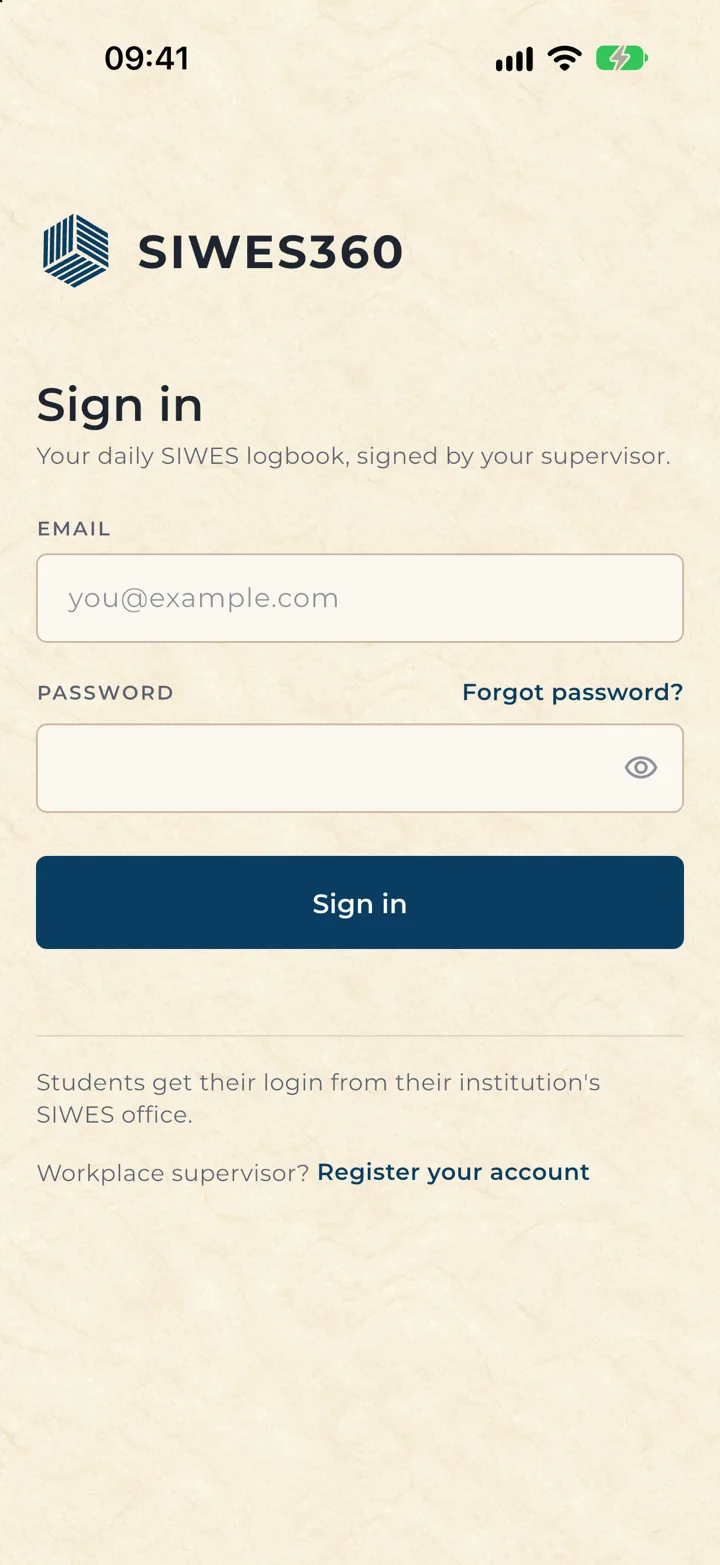
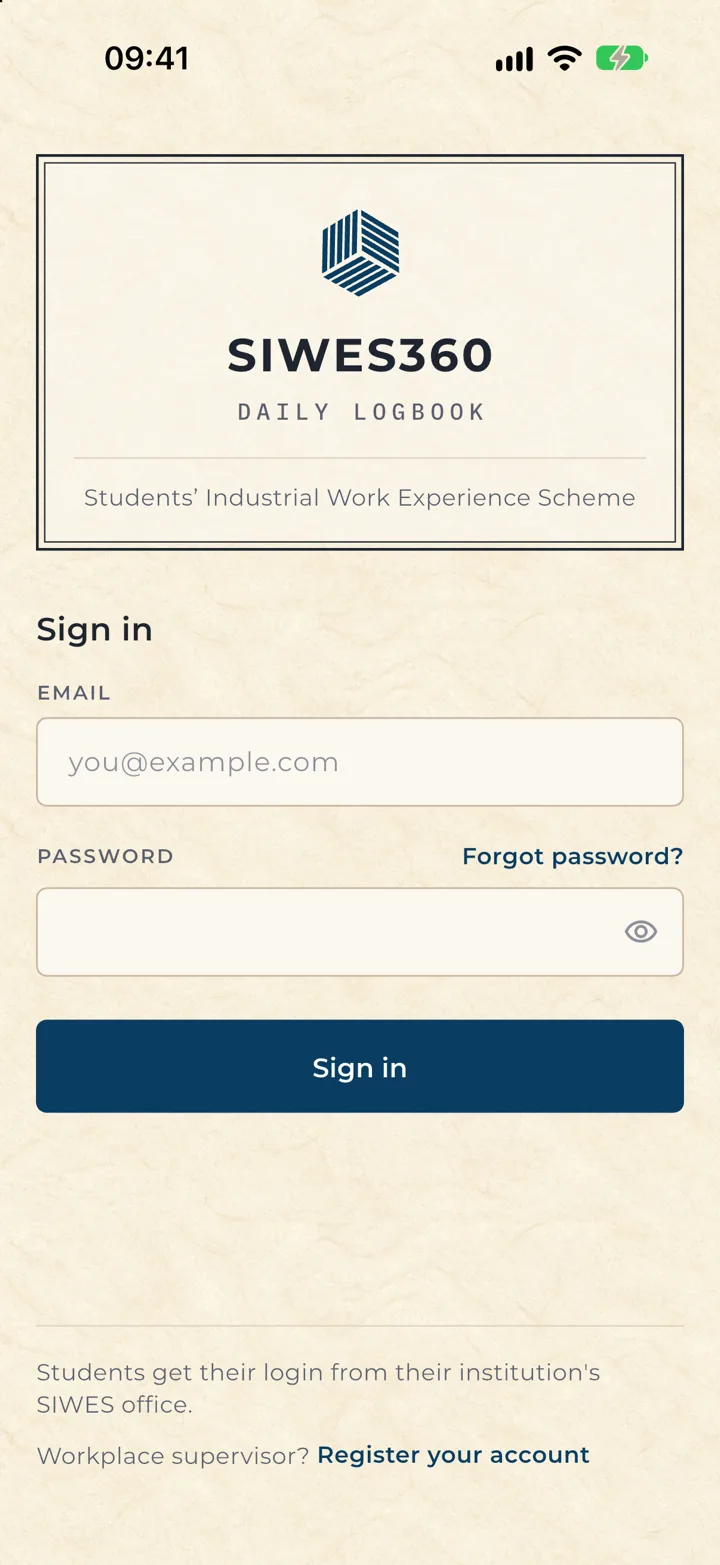
Show the new sign-in screens and describe OtakuPlanner's assistant
OtakuPlanner's Log in and SIWES360's Sign in are retaken after their
redesigns, and the prototypes' tap areas moved onto the new buttons.

The OtakuPlanner case study gets a section on the planning assistant
now that it runs end to end: what it reads, how suggestions reach the
calendar, and how the backend keeps the Gemini key and checks replies.

diff --git a/index.html b/index.html
@@ -853,7 +853,7 @@
                             <div class="col-md-7">
                                 <div class="project-info">
                                     <h6>Project Overview</h6>
-                                    <p>A productivity planner built for anime fans. Tasks live on a custom calendar, recurring tasks can be set up by typing them in plain English, and reminders, a daily streak and badges keep you on track. An assistant reads your own tasks and suggests times for what you want to fit in; nothing is added until you tap Add.</p>
+                                    <p>A productivity planner built for anime fans. Tasks live on a custom calendar, recurring tasks can be set up by typing them in plain English, and reminders, a daily streak and badges keep you on track. A planning assistant finds time in your week for whatever you want to fit in.</p>
                                     
                                     <h6>Key Features</h6>
                                     <ul>
@@ -864,11 +864,12 @@
                                         <li>Reminders five minutes before a task and when it is due</li>
                                         <li>A daily quote and a dashboard of today’s tasks by time of day</li>
                                         <li>Badges with levels, filters and progress, and a daily streak</li>
-                                        <li>An assistant that reads your tasks and suggests times, using the Gemini API</li>
-
-
+                                        <li>A planning assistant that suggests tasks you add with one tap</li>
                                     </ul>
-                                    
+
+                                    <h6>The planning assistant</h6>
+                                    <p>Added in November 2026. Ask it something like “Fit two episodes in this week”. It reads your overdue tasks, today and the next two weeks, answers in a line or two, and offers up to five tasks as cards with a date, time and category. Nothing goes on your calendar until you tap Add. The app only talks to the Express backend, which calls Gemini, so the API key never ships with the app. The server checks every suggestion and drops any that are in the past, at an impossible time or listed twice, and each user can ask 30 questions an hour.</p>
+
                                     <h6>Technologies Used</h6>
                                     <div class="tech-stack">
                                         <span class="tech-badge">Flutter</span>

diff --git a/js/app-prototypes.js b/js/app-prototypes.js
@@ -414,7 +414,7 @@
             10: {
                 label: 'Sign in',
                 hotspots: [
-                    { id: 'signin', label: 'Sign in', to: { student: '1', supervisor: '4', school: '6', itf: '9' }, t: 'fade', x: 4, y: 53.8, w: 92, h: 6.8 }
+                    { id: 'signin', label: 'Sign in', to: { student: '1', supervisor: '4', school: '6', itf: '9' }, t: 'fade', x: 4, y: 64.6, w: 92, h: 7 }
                 ]
             },
             1: {
@@ -489,7 +489,7 @@
             1: {
                 label: 'Log in',
                 hotspots: [
-                    { id: 'login', label: 'Log in', to: '3', t: 'fade', x: 5.5, y: 50.8, w: 89, h: 6.2 }
+                    { id: 'login', label: 'Log in', to: '3', t: 'fade', x: 5.5, y: 67.4, w: 89, h: 6.3 }
                 ]
             },
             2: {
